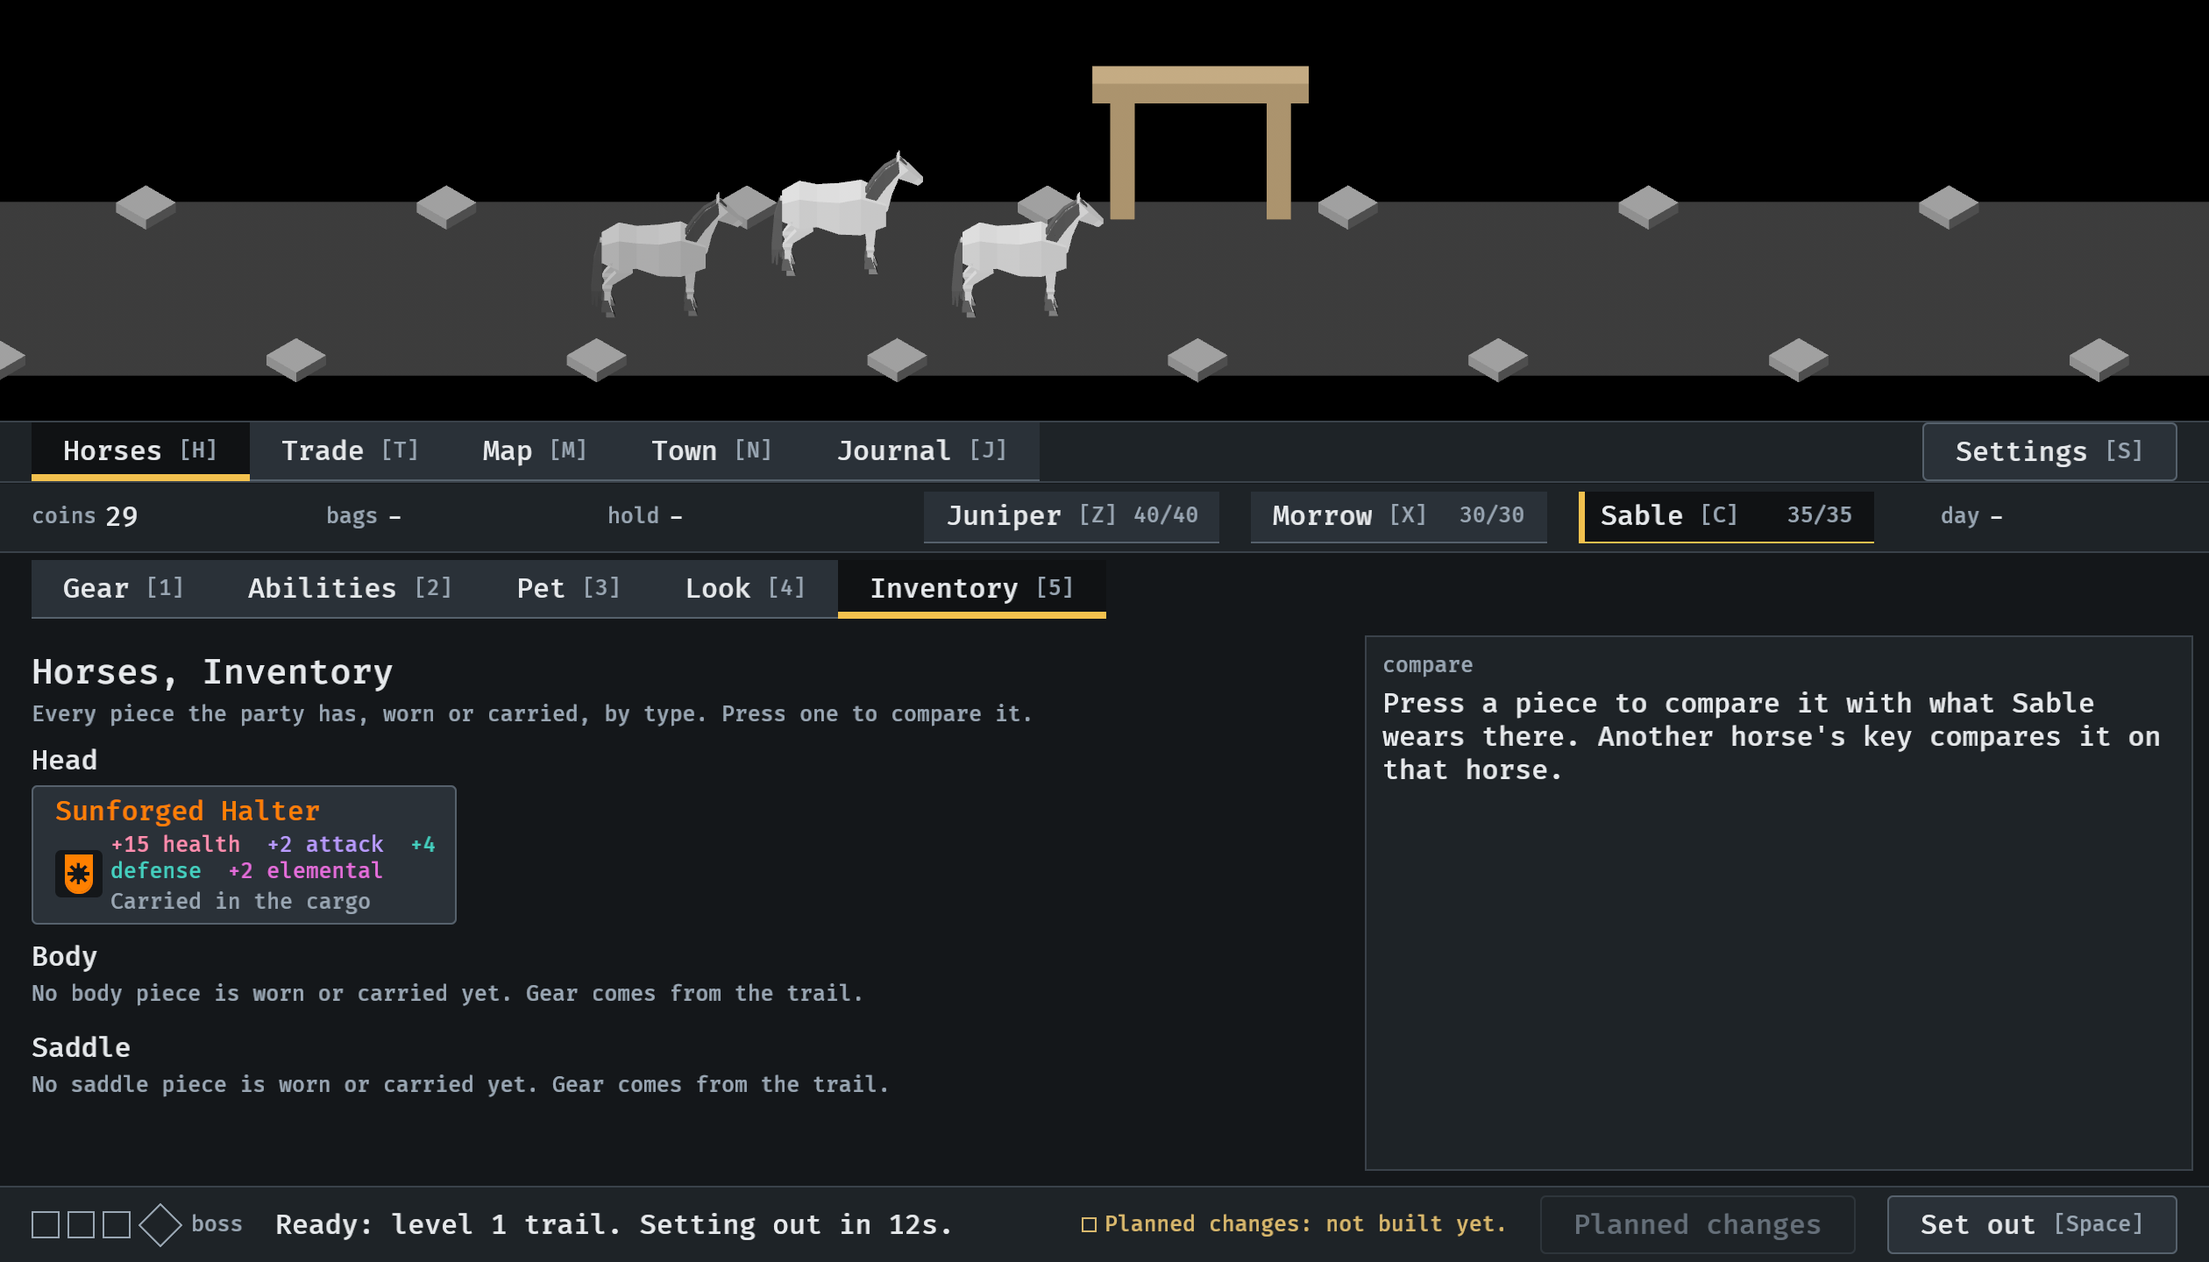
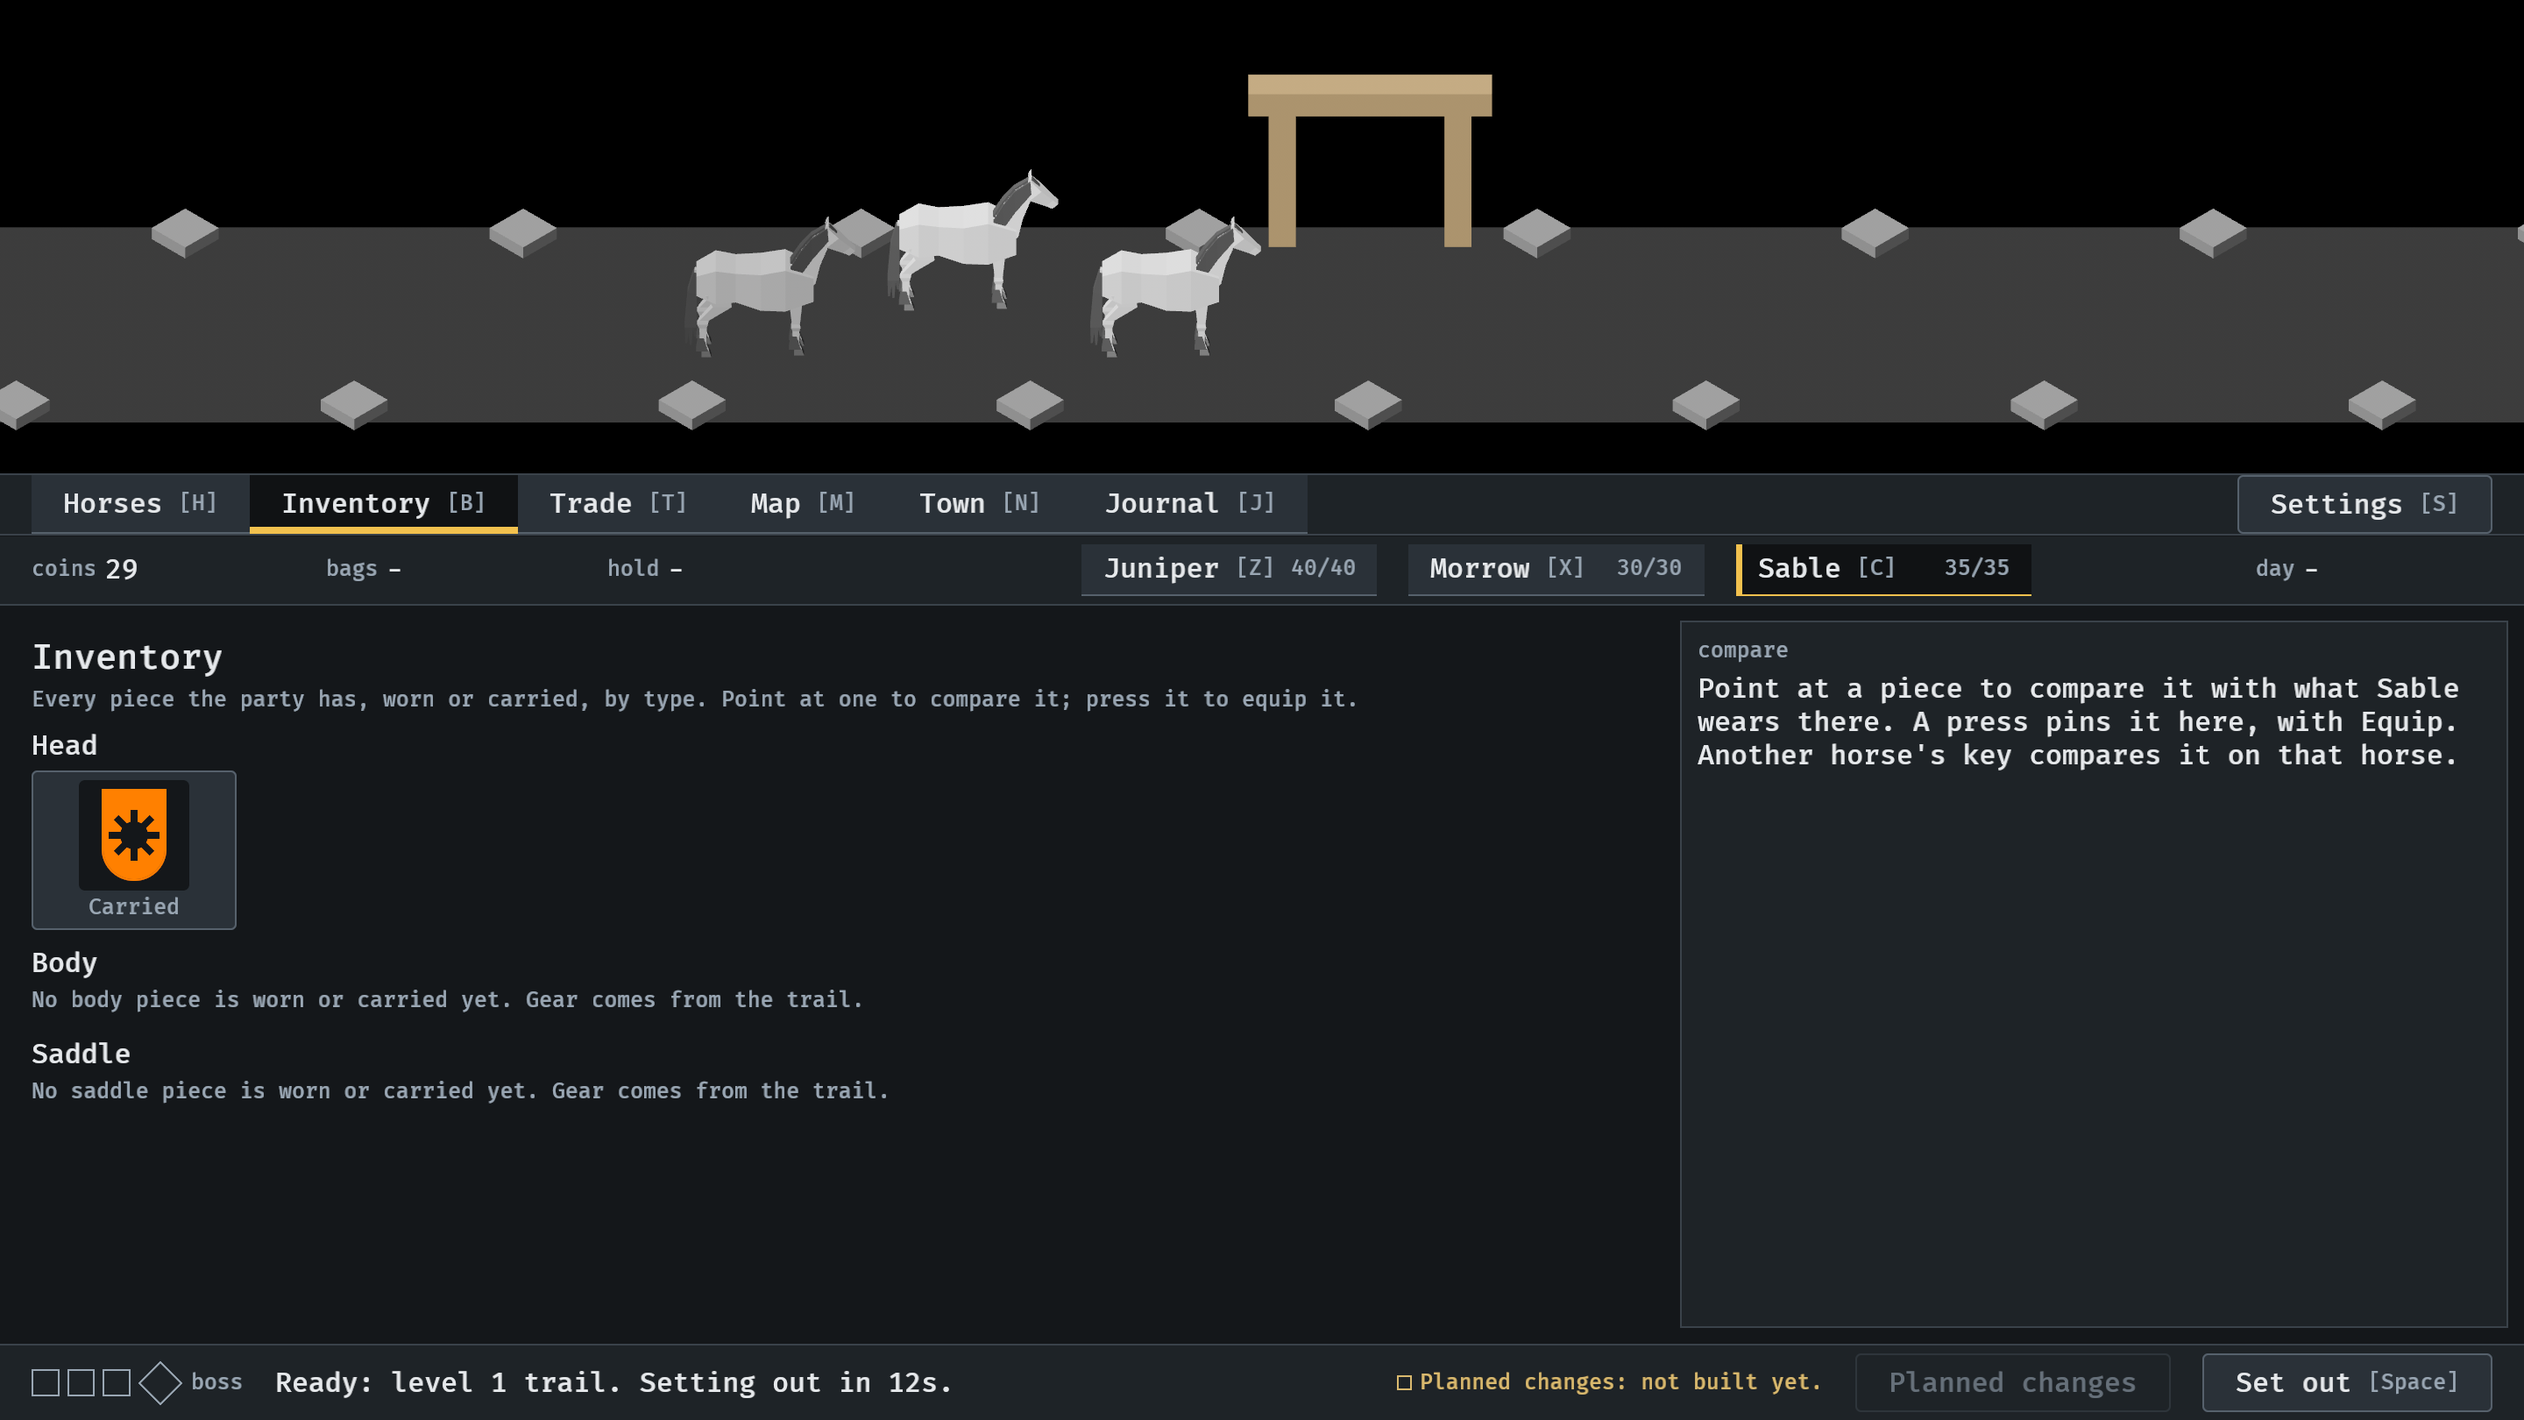
Session log and docs: the Inventory as a place of its own
Claude-Session: https://claude.ai/code/session_018i5GkugzeqX35JFzG8FV1P

diff --git a/docs/menu-shell.md b/docs/menu-shell.md
@@ -1,6 +1,7 @@
 # The menu shell
 
-The frame every menu screen hangs on (#226): the bar of five places, the
+The frame every menu screen hangs on (#226): the bar of places (the
+owner's five, and the Inventory she gave a place of its own), the
 status strip and the footer, which never move, and between them the place
 that is open. The guidance behind it is
 [philosophy/menus.md](philosophy/menus.md), "The map of the menus" and
@@ -23,7 +24,7 @@ that is open. The guidance behind it is
     +--------------------------------------------------+
     |        3D scene (top third, SCENE_SHARE)         |
     +--------------------------------------------------+
-    | Horses  Trade  Map  Town  Journal       Settings |  bar
+    | Horses Inventory Trade Map Town Journal Settings |  bar
     | coins  bags  hold    A  B  C                 day |  status strip
     +--------------------------------------------------+
     | tabs of the open place                           |
@@ -136,7 +137,7 @@ does, and with both the sentence wrapped at the smallest window.
 
 ## How a place keeps its state
 
-All five places, and every tab of each, are spawned once at startup and only
+All the places, and every tab of each, are spawned once at startup and only
 shown or hidden. Nothing is rebuilt on a visit, so a place is found as it was
 left, whatever it comes to hold. A page that is not showing is both out of
 the layout (`Display::None`) and hidden (`Visibility::Hidden`): the first
@@ -273,7 +274,8 @@ every place, tab and horse has a key, and no key means two things at once.
   side panel, where Equip works without going to the Horses place. An
   earlier one: see "The Journal's reports".
 - `Inventory`: every piece the party has, worn or carried, in a grid by
-  type (#308): see "The Inventory" below.
+  type (#308): see "The Inventory" below. It is the `content` of a place
+  without tabs, which a place may have as a tab does.
 - none: the tab says what will be decided there and that it is not built.
 
 Under whatever a tab shows come its controls.
@@ -289,15 +291,18 @@ The cargo's own controls are those of a list: Filter, Sort, Search.
 
 ## The Inventory
 
-The fifth tab of Horses (key 5): all the items, not divided by horse (the
-owner, 2026-10-11; `docs/philosophy/inventory.md`).
+A place of its own in the bar, after Horses (key B): all the items, not
+divided by horse (the owner, 2026-10-11; `docs/philosophy/inventory.md`).
+It was first built as the fifth tab of Horses, with the comparison on a
+press; she asked the same day for "its own tab with a grid view with
+comparisons when you hover an item".
 
     | Head                                    | compare            |
-    | [piece] [piece] [piece]                 | For Sable, Head    |
-    | Body                                    | Equipped: ...      |
-    | No body piece is worn or carried yet.   | Selected: ...      |
-    | Saddle                                  | ...                |
-    | [piece]                                 | [Equip] [List] ... |
+    | [tile] [tile] [tile] [tile]             | Point at a piece   |
+    | Body                                    | to compare it ...  |
+    | No body piece is worn or carried yet.   |                    |
+    | Saddle                                  |                    |
+    | [tile]                                  |                    |
 
 - **A headed group for each type**, in the order of `Slot::ALL`, so a new
   slot gets its group with no menu code. In a group: what each horse wears
@@ -305,28 +310,34 @@ owner, 2026-10-11; `docs/philosophy/inventory.md`).
   is of that type (`held` in the shell; a test holds that every piece is
   there once, under its type). An empty type says so in a line
   (`card::none_held`) and keeps its heading.
-- **A cell** is the piece's name in its rarity's colour, its picture, what
-  it adds, and "Worn by Sable" or "Carried in the cargo". It is the same
-  control as a slot of the overview (`SlotRow`) or the cargo's piece
-  (`CarriedCell`), on this tab, so the pointer's card, the arrow keys and
-  the selected mark come with it.
+- **A tile** is the piece's picture, large (`size.inventory_picture`, 56),
+  and under it whose it is: the horse's name, or "Carried". Its name and
+  what it adds are under the pointer. It is the same control as a slot of
+  the overview (`SlotRow`) or the cargo's piece (`CarriedCell`), so the
+  arrow keys and the selected mark come with it.
+- **The pointer on a tile compares it** (`card::pointed_comparison`, in
+  the hover card of [item-card.md](item-card.md), at `size.compare_width`):
+  for the selected horse, the piece equipped and the piece under the
+  pointer, what changes, and the table. A press pins the same comparison
+  at the right, with Equip and the card's other actions; Enter does that
+  for the keyboard.
 - **Every cell a group can hold is spawned once** and shows while its piece
   is held (`When::Held`, `When::NoneHeld`, in `show_carried`), as the rest
   of the shell is shown and hidden and never rebuilt. When the cargo holds
   more than one piece (#227) this is the part that changes.
-- **The grid** is a CSS grid of as many equal columns as fit, each at least
-  `size.inventory_cell` wide (208, the longest name on one line): three at
-  the smallest window.
-- **It has the place's width.** On this tab the horses column
-  (`Page::Horses`) and the cargo column are away. The horse a piece is
-  compared on, and equipped on, is the one selected in the status strip,
-  which is always in view.
-- **The comparison keeps its room** at the right, `size.compare_width`
-  (420), whether or not a piece is open: `Page::Compare` says how to use it
-  while none is, and the detail opens at that same width, so the grid
-  never moves. What it says is in [item-card.md](item-card.md), "The
+- **The grid** is a CSS grid of as many columns as fit, each
+  `size.inventory_cell` wide (104): six at the smallest window.
+- **It has the place's width.** The place has no horses column and no
+  cargo column. The horse a piece is compared on, and equipped on, is the
+  one selected in the status strip, which is always in view.
+- **The pinned comparison keeps its room** at the right,
+  `size.compare_width` (420), whether or not a piece is pinned:
+  `Page::Compare` says how to use it while none is, and the detail opens at
+  that same width, so the grid never moves. What it says is in [item-card.md](item-card.md), "The
   comparison".
-- The tab has no controls of its own: its cells are its controls. Filter,
+- A carried piece in view here has been seen, as in the cargo column
+  (Marks).
+- The place has no controls of its own: its tiles are its controls. Filter,
   Sort and Search are #235.
 
 ## A tab that does not fit
@@ -391,9 +402,9 @@ in the shell presses the thing when its key goes down, by the same
 
 | Key | What it works | Where it is in the file |
 | --- | --- | --- |
-| H, T, M, N, J | Horses, Trade, Map, Town, Journal | `key` of the place |
+| H, B, T, M, N, J | Horses, Inventory, Trade, Map, Town, Journal | `key` of the place |
 | S | Settings | `key` of `settings` |
-| 1 to 5 | The tabs of the place that is showing | `key` of the tab |
+| 1 to 4 | The tabs of the place that is showing | `key` of the tab |
 | Z, X, C | The first, second and third horse | `horse_keys` |
 | F, I, P | Fire, Ice, Plant, in town only | `key` of the control |
 | E | Equip the piece whose card is open, or the drop when none is, in town only | `key` of the control |
@@ -541,7 +552,7 @@ marks, and the `tab` when the thing is on one.
 
 | `raise` | There is a mark while | It is seen when |
 | --- | --- | --- |
-| `Upgrade` | the piece in the cargo betters what some horse wears | the cargo column shows, or the piece's card, or the report that shows the piece |
+| `Upgrade` | the piece in the cargo betters what some horse wears | the cargo column shows, or the Inventory, or the piece's card, or the report that shows the piece |
 | `Report(lost, rarity)` | the newest report kept is of a trail that was lost (`lost`), or that dropped a piece of at least `rarity` | that report shows, on its tab |
 
 Today: an upgrade marks Horses, and a lost trail or a Legendary piece or

diff --git a/docs/gallery/2026-10-11-inventory/README.md b/docs/gallery/2026-10-11-inventory/README.md
@@ -1,19 +1,23 @@
 # The Inventory, 2026-10-11
 
-Every piece the party has, in a grid by type, and the comparison beside it
-(#308). Stills from the menu tour at `--seed 6`, at the smallest window
-(1120x640), read by the session. How it works:
-[menu-shell.md](../../menu-shell.md), "The Inventory", and
+Every piece the party has, in a grid of tiles by type, in a place of its
+own, with the comparison under the pointer (#308). Stills from the menu
+tour at `--seed 6`, at the smallest window (1120x640), read by the session.
+How it works: [menu-shell.md](../../menu-shell.md), "The Inventory", and
 [item-card.md](../../item-card.md), "The comparison".
 
-**1.** Back from the first trail: the drop is in the Head group, carried; the other types say they are empty. The grid has the place's width and the comparison keeps its room.
+**1.** Back from the first trail: Inventory is in the bar after Horses. The drop is a tile in the Head group, carried; the other types say they are empty.
 
-![The Inventory with one piece carried and two empty types.](01-every-piece-by-type.png)
+![The Inventory with one tile, carried, and two empty types.](01-every-piece-by-type.png)
 
-**2.** A press on the piece (here Down, then Enter) opens the comparison: for Sable, nothing equipped, the piece selected, and what changes. The table and what Equip would do are a scroll below at this size.
+**2.** The pointer resting on the tile: the comparison for Sable, nothing equipped, the piece under the pointer, what changes, and the table.
 
-![The piece opened in the comparison, with the card's actions under it.](02-a-piece-compared.png)
+![The comparison beside the tile the pointer is on.](02-a-piece-compared.png)
 
-**3.** Equipped: the same cell now says who wears it.
+**3.** Equipped: the same tile now names who wears it.
 
-![The piece in its group, worn by Sable.](03-worn.png)
+![The tile in its group, named Sable.](03-worn.png)
+
+**4.** A press (here Down, then Enter) pins the comparison at the right, with Equip.
+
+![The piece pinned in the side panel, with the card's actions under it.](04-pinned.png)

diff --git a/docs/philosophy/inventory.md b/docs/philosophy/inventory.md
@@ -14,6 +14,11 @@ carried and kept is [cargo.md](cargo.md).
   A piece says who wears it; the screen is not arranged by who does.
 - It is a grid split by item type, of every piece the horses and the
   caravan hold (#308).
+- **It is its own tab, a grid, and compares under the pointer**
+  (2026-10-11, on seeing it as a tab of Horses that compared on a press:
+  "Inventory should be its own tab with a grid view with comparisons when
+  you hover an item"). Read as a place of its own in the bar; this makes
+  the bar six places, where vision.md had five.
 
 ## Principles
 
@@ -150,12 +155,12 @@ horse's build?
 Checked against the game as built on 2026-10-11 (`docs/item-card.md`,
 `docs/menu-shell.md`, `assets/data/gear.ron`).
 
-- **Built.** The Inventory tab of Horses (#308): every piece worn or
-  carried, in a grid by type, with the place's whole width; each cell names
-  its piece in its rarity's colour, pictures it, says what it adds and who
-  wears it or that it is carried. Beside it the comparison: the recipient
-  and slot, equipped and selected, what changes for the horse, one aligned
-  table with new, lost and same in words, and what Equip would do. The
+- **Built.** The Inventory, a place in the bar (#308): every piece worn or
+  carried, in a grid of tiles by type; a tile is the piece's picture and
+  who wears it or that it is carried. The pointer on a tile shows the
+  comparison: the recipient and slot, equipped and selected, what changes
+  for the horse, and one aligned table with new, lost and same in words. A
+  press pins it beside the grid with what Equip would do. The
   recipient is the selected horse in the strip, which stays in view, and a
   horse's key compares the same piece there.
 - **Already in line.** One selected horse everywhere, undo over

diff --git a/docs/item-card.md b/docs/item-card.md
@@ -62,10 +62,12 @@ piece was pressed in:
 
 ## The comparison
 
-What a press on a piece opens in the Inventory (#308;
-`docs/philosophy/inventory.md`, "The comparison answers three questions at
-once"; `card::comparison`). Everywhere else a press still pins the card
-above; making them one is #312.
+What the pointer shows on a piece in the Inventory, and what a press pins
+there (#308; `docs/philosophy/inventory.md`, "The comparison answers three
+questions at once"). Under the pointer (`card::pointed_comparison`) it ends
+with "A press pins it, with its actions."; pinned (`card::comparison`) it
+ends with what Equip would do, beside Equip. Everywhere else the pointer
+and a press still show the card above; making them one is #312.
 
     For Sable, Head
     Equipped: Plain Halter (Normal)
@@ -130,6 +132,8 @@ overview, the cargo and the report (`card::hovered`; `point`,
 
     A press pins it, with its actions.
 
+- In the Inventory it is the comparison instead, at the comparison's
+  width (see "The comparison").
 - It is the pinned card's own lines (`face`), so the two cannot differ. What
   Equip would do is not on it: a consequence is said beside the action,
   never only under the pointer (menus.md).

diff --git a/docs/philosophy/vision.md b/docs/philosophy/vision.md
@@ -509,7 +509,8 @@ the same day. The advice built on them is in [menus.md](menus.md).
 - **Five places, horse first:** Horses, Trade, Map, Town, Journal, in one bar
   that is always visible. Town opens on Horses. Gear, abilities, pet and look
   are tabs on the selected horse. This replaces the four places (Party,
-  Trade, Wardrobe, Town) proposed in town.md.
+  Trade, Wardrobe, Town) proposed in town.md. On 2026-10-11 she gave the
+  Inventory a place of its own, after Horses ([inventory.md](inventory.md)).
 - **Mouse first, with a key for everything.** The whole game can be played
   without the mouse. A controller is not a design target.
 - **On the road, look and plan.** Every place opens on the road. Gear,

diff --git a/docs/mechanics-for-tutorial.md b/docs/mechanics-for-tutorial.md
@@ -72,8 +72,8 @@ picker, buttons for most actions.
 
 - **Scene on top, menus below.** In town the scene is the top third. On the
   road it grows to four fifths when no place is open.
-- **A bar of five places, always visible:** Horses (H), Trade (T), Map (M),
-  Town (N), Journal (J), and Settings (S) at the end.
+- **A bar of six places, always visible:** Horses (H), Inventory (B),
+  Trade (T), Map (M), Town (N), Journal (J), and Settings (S) at the end.
 - **Tabs per place** (keys 1 to 4): Horses has Gear, Abilities, Pet, Look.
   Trade has Sell, Buy, Storage, Rules. Town has Projects, Residents. Journal
   has Report, Journal, Codex. Map has none.
